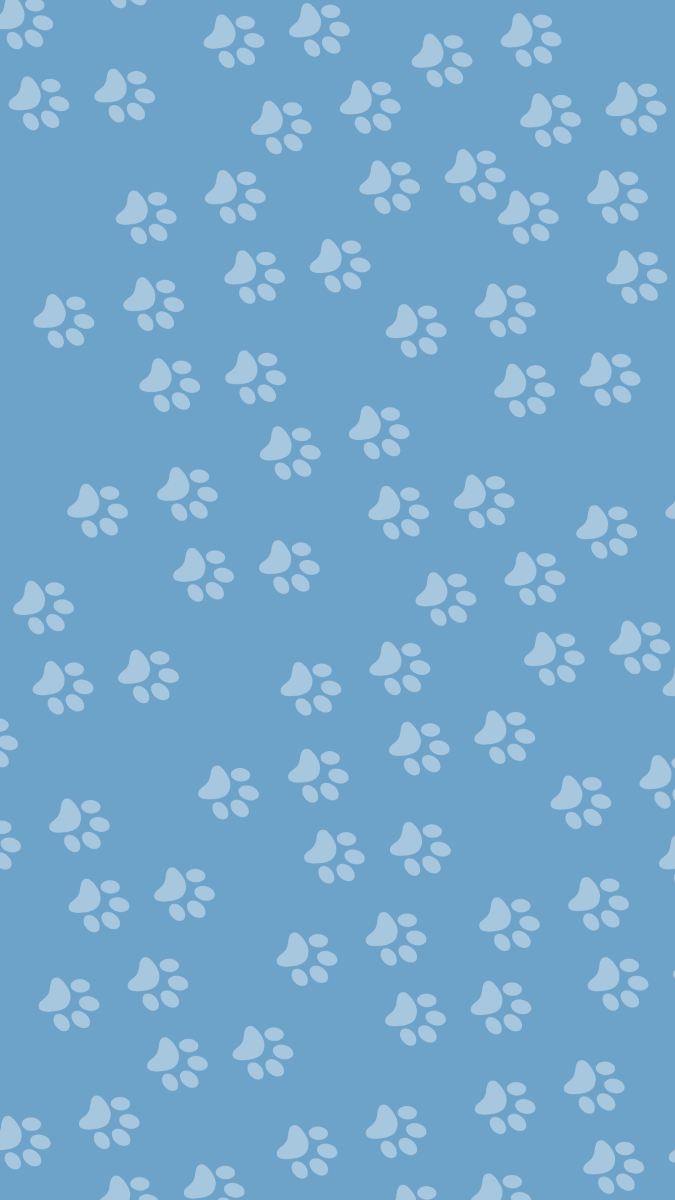
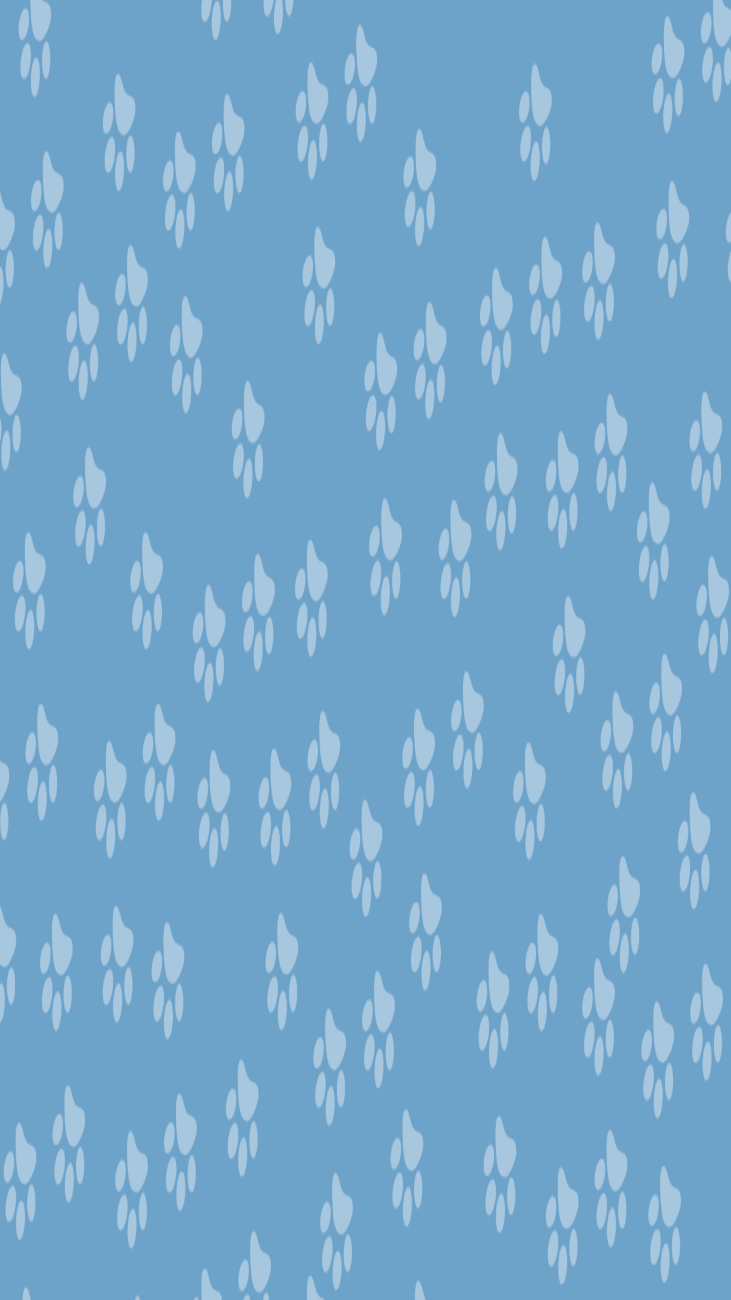
front-end

diff --git a/FrontEnd/style.css b/FrontEnd/style.css
@@ -320,11 +320,11 @@ padding-bottom: 80px;
 
 .petback{
   background-color: aquamarine;
-  background: url(img/patinhascelular.png) no-repeat center;
+  background: url(img/patinhass_canva.png) no-repeat center;
   background-size: cover auto;
   background-position: center ;
   width: 100%;
-  height: 1200px;
+  height: 1300px;
   text-align: center;
 }
 
